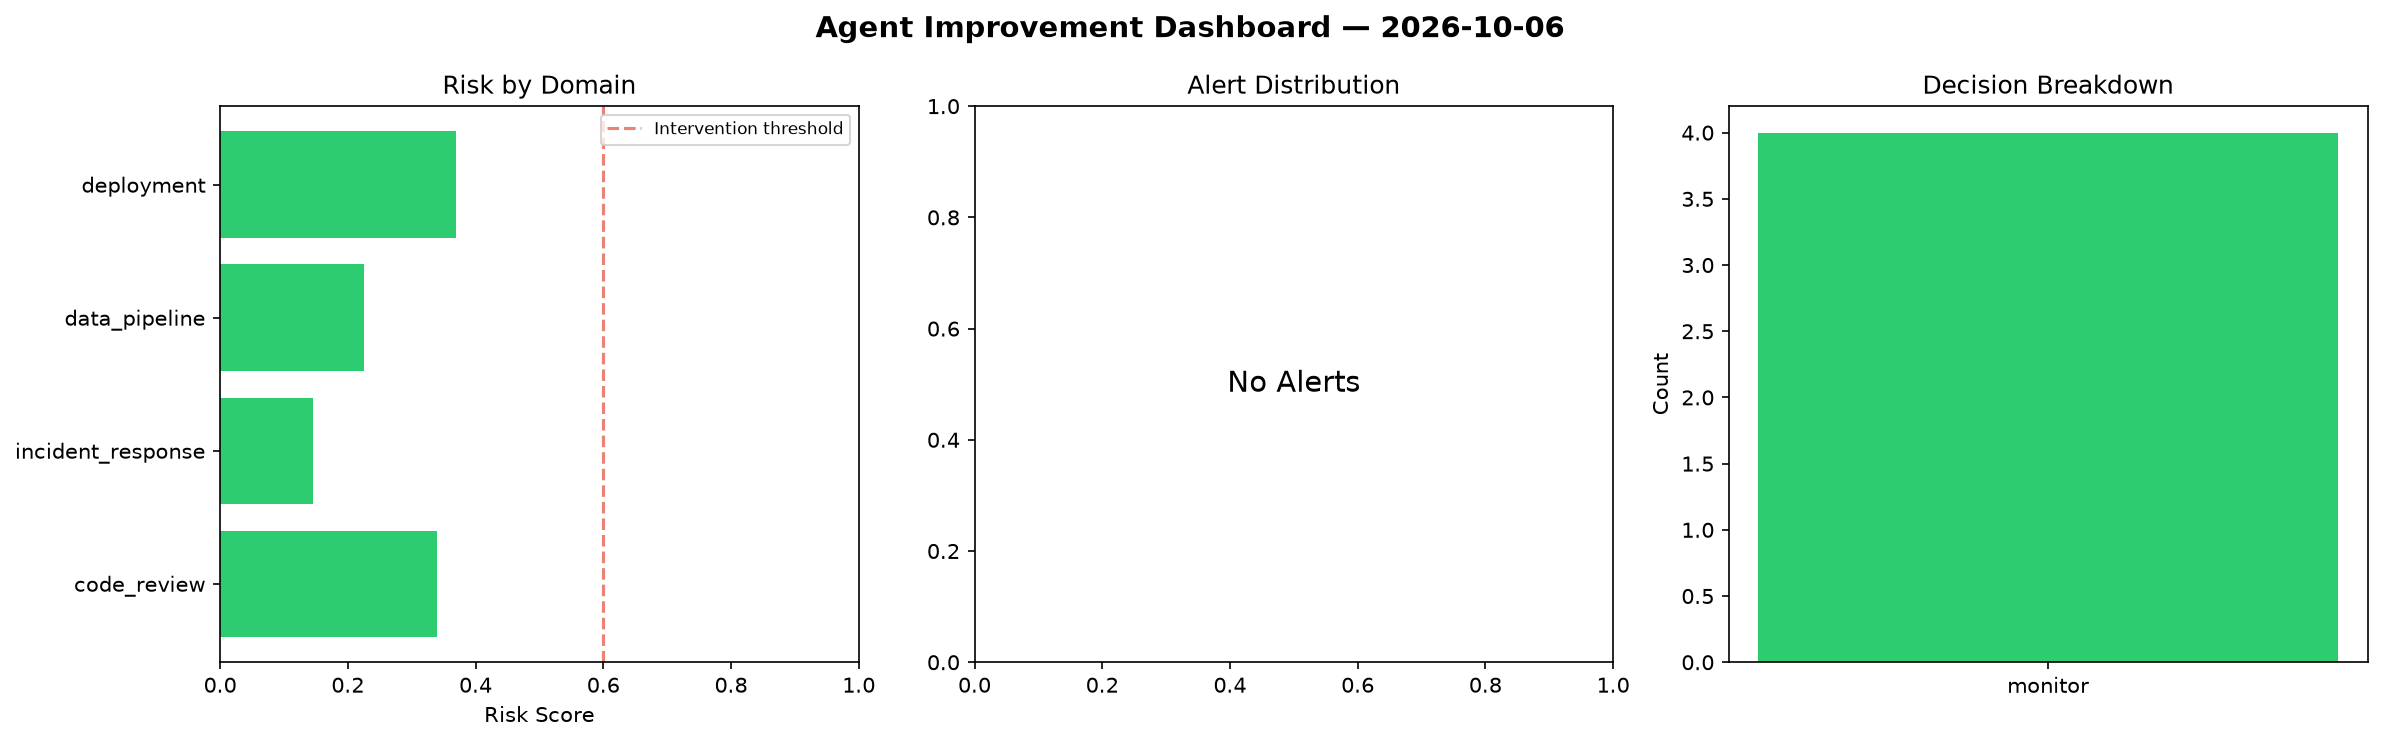
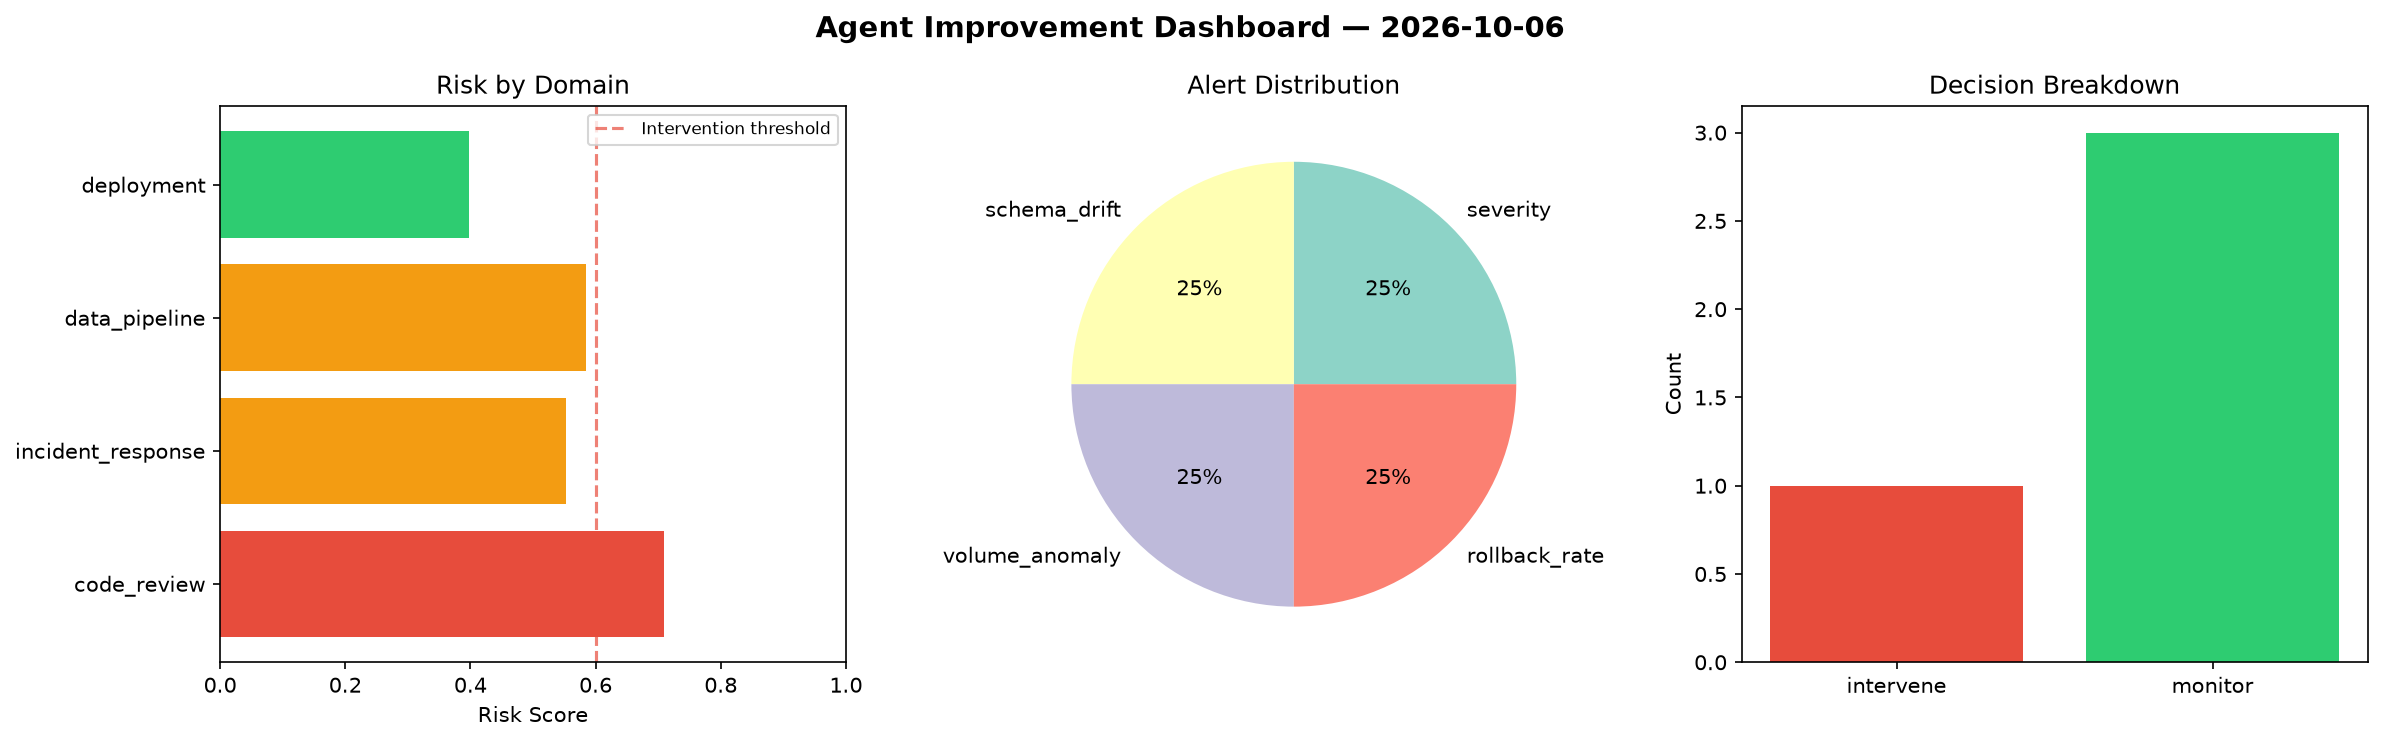
agent-improvement: daily cycle 2026-10-06T19:32

diff --git a/logs/2026-10-06.md b/logs/2026-10-06.md
@@ -1,6 +1,6 @@
 # Agent Improvement Report — 2026-10-06
 
-**Cycle ID:** `dc15e557` | **Avg Risk:** 0.2701 | **Interventions:** 0/4
+**Cycle ID:** `9fbc3162` | **Avg Risk:** 0.5613 | **Interventions:** 1/4
 
 ![Dashboard](2026-10-06_dashboard.png)
 
@@ -10,18 +10,18 @@
 
 | Domain | Risk Score | Decision | Alerts |
 |--------|-----------|----------|--------|
-| code_review | 0.3402 | monitor | none |
-| incident_response | 0.1454 | monitor | none |
-| data_pipeline | 0.2259 | monitor | none |
-| deployment | 0.3687 | monitor | none |
+| code_review | 0.71 | intervene | none |
+| incident_response | 0.5533 | monitor | severity |
+| data_pipeline | 0.5842 | monitor | schema_drift, volume_anomaly |
+| deployment | 0.3977 | monitor | rollback_rate |
 
 ## Delta vs Yesterday
 
 | Domain | Today | Yesterday | Change |
 |--------|-------|-----------|--------|
-| code_review | 0.3402 | 0.5961 | 📉 -42.9% |
-| incident_response | 0.1454 | 0.2709 | 📉 -46.3% |
-| data_pipeline | 0.2259 | 0.615 | 📉 -63.3% |
-| deployment | 0.3687 | 0.6389 | 📉 -42.3% |
+| code_review | 0.71 | 0.5961 | 📈 19.1% |
+| incident_response | 0.5533 | 0.2709 | 📈 104.2% |
+| data_pipeline | 0.5842 | 0.615 | 📉 -5.0% |
+| deployment | 0.3977 | 0.6389 | 📉 -37.8% |
 
-**Refinement:** `{'adjustment': 'tighten_thresholds', 'trend': 'degrading', 'window': 4}`
+**Refinement:** `{'adjustment': 'maintain', 'trend': 'improving', 'window': 4}`
